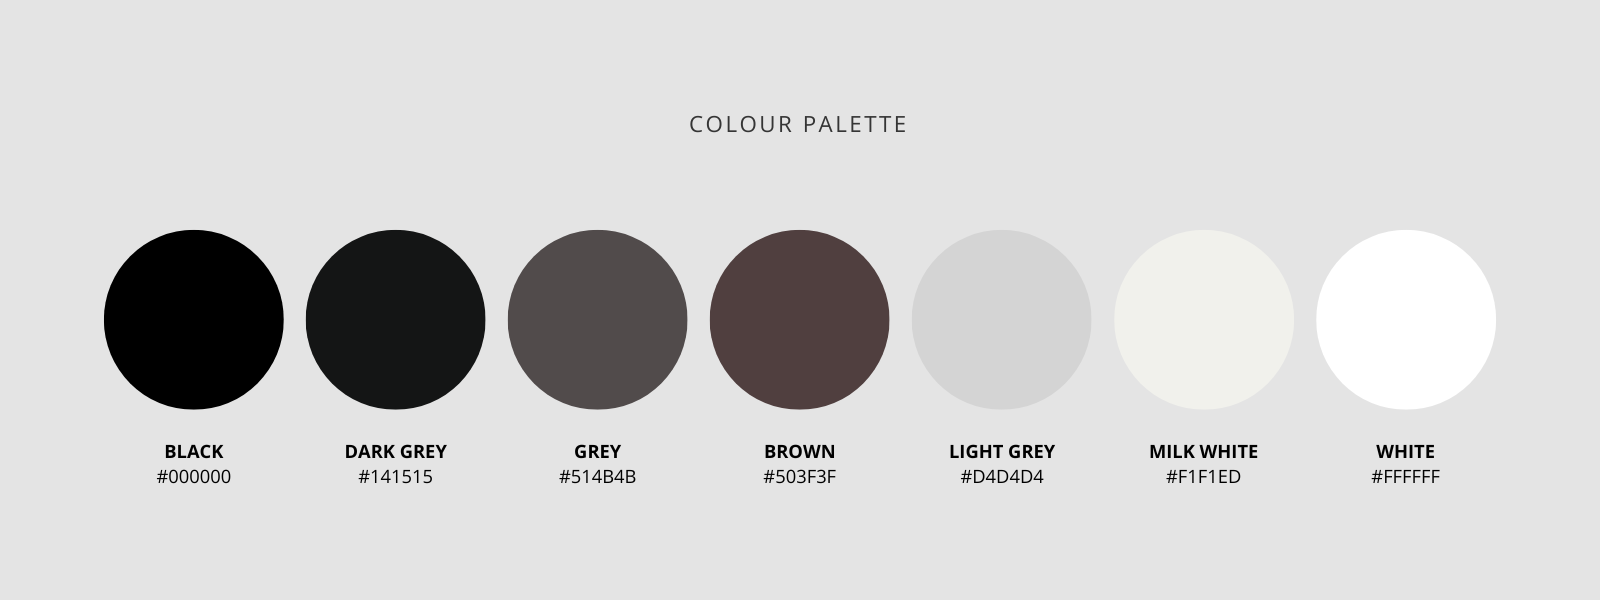
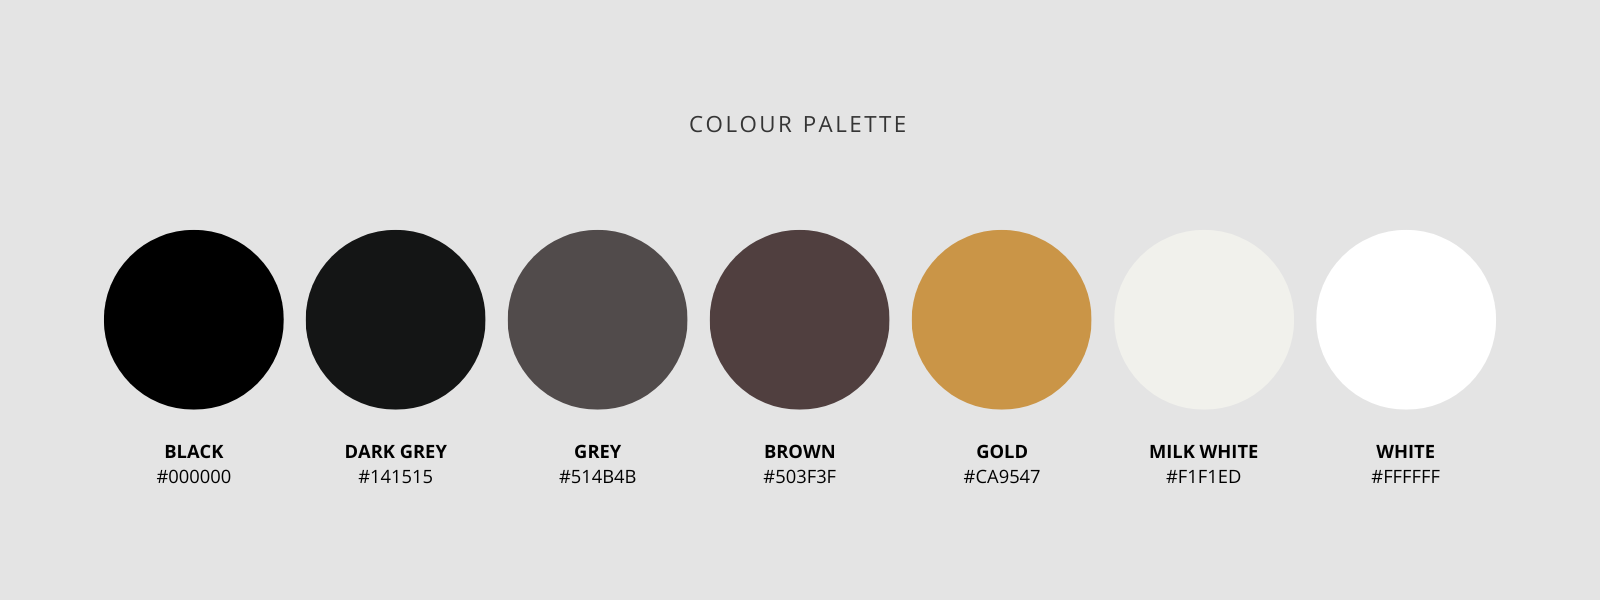
Add See More Projects buttons, change color palette

Changed region(s): [[0.5625, 0.39, 0.6875, 0.69], [0.5938, 0.72, 0.6562, 0.81]]

diff --git a/src/components/Footer/Footer.jsx b/src/components/Footer/Footer.jsx
@@ -10,6 +10,18 @@ export default function Footer() {
           Astarina Maulida
         </p>
       </footer>
+      {/* <div className="arrow">
+        <svg
+          xmlns="http://www.w3.org/2000/svg"
+          width="40"
+          height="40"
+          fill="currentColor"
+          class="bi bi-arrow-up-circle-fill"
+          viewBox="0 0 16 16"
+        >
+          <path d="M16 8A8 8 0 1 0 0 8a8 8 0 0 0 16 0zm-7.5 3.5a.5.5 0 0 1-1 0V5.707L5.354 7.854a.5.5 0 1 1-.708-.708l3-3a.5.5 0 0 1 .708 0l3 3a.5.5 0 0 1-.708.708L8.5 5.707V11.5z" />
+        </svg>
+      </div> */}
     </div>
   );
 }

diff --git a/src/components/Project3/Project3.jsx b/src/components/Project3/Project3.jsx
@@ -137,6 +137,22 @@ export default function Project3() {
           happy. It was a journey of learning and growing.
         </p>
       </div>
+      <div className="button-row">
+        <BootstrapButton
+          sx={{
+            marginTop: "30px",
+            marginBottom: "30px",
+            paddingLeft: "20px",
+            paddingRight: "20px",
+          }}
+          variant="contained"
+          target="_blank"
+          disableRipple
+          href="/"
+        >
+          See Other Projects
+        </BootstrapButton>
+      </div>
     </div>
   );
 }

diff --git a/src/components/Project2/Project2.jsx b/src/components/Project2/Project2.jsx
@@ -192,6 +192,22 @@ export default function Project2() {
           limited human resources.
         </p>
       </div>
+      <div className="button-row">
+        <BootstrapButton
+          sx={{
+            marginTop: "30px",
+            marginBottom: "30px",
+            paddingLeft: "20px",
+            paddingRight: "20px",
+          }}
+          variant="contained"
+          target="_blank"
+          disableRipple
+          href="/"
+        >
+          See Other Projects
+        </BootstrapButton>
+      </div>
     </div>
   );
 }

diff --git a/src/components/Project1/Project1.jsx b/src/components/Project1/Project1.jsx
@@ -264,6 +264,22 @@ export default function Project1() {
           L'Oréal Canada.
         </p>
       </div>
+      <div className="button-row">
+        <BootstrapButton
+          sx={{
+            marginTop: "30px",
+            marginBottom: "30px",
+            paddingLeft: "20px",
+            paddingRight: "20px",
+          }}
+          variant="contained"
+          target="_blank"
+          disableRipple
+          href="/"
+        >
+          See Other Projects
+        </BootstrapButton>
+      </div>
     </div>
   );
 }

diff --git a/src/components/Footer/Footer.css b/src/components/Footer/Footer.css
@@ -1,17 +1,23 @@
 .footer {
   flex-shrink: 0;
   text-align: center;
-  margin-top: auto;
+  margin-top: 50px;
   font-size: 1px;
 }
 
 .p-footer {
-  font-size: 14px;
+  font-size: 12px;
   line-height: 26px;
   font-weight: 400;
   color: #656565;
   margin-bottom: 20px;
 }
+
+/* .arrow {
+  position: absolute;
+  display: flex;
+  align-items: flex-end;
+} */
 
 @media (max-width: 600px) {
   .p-footer {
